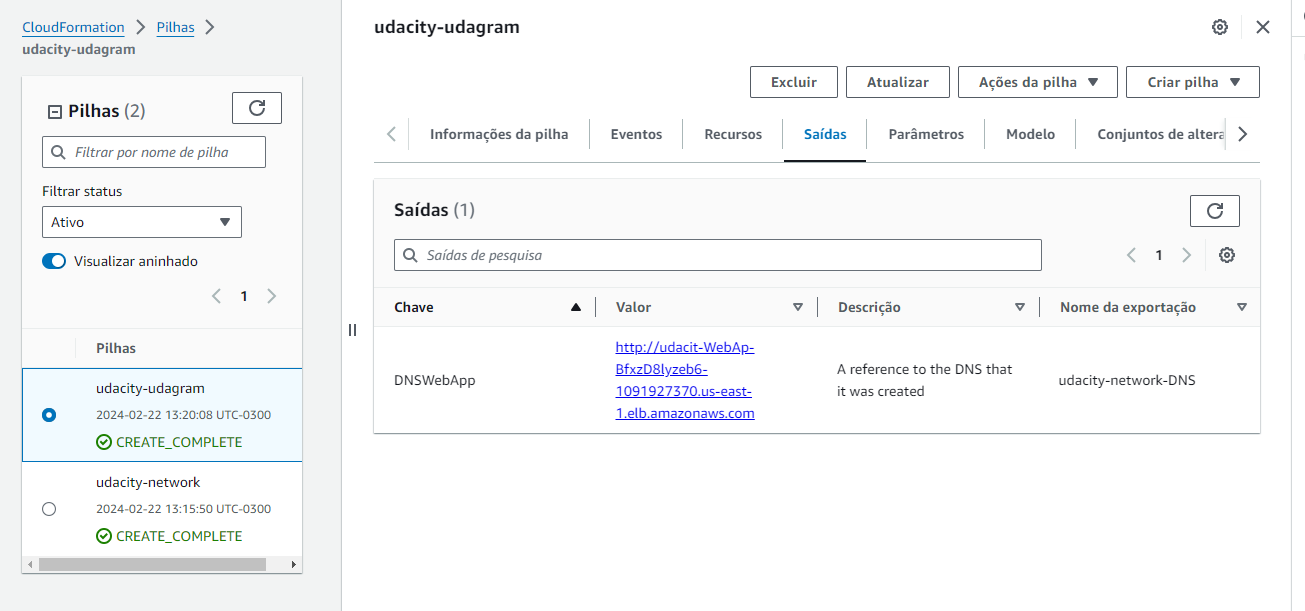
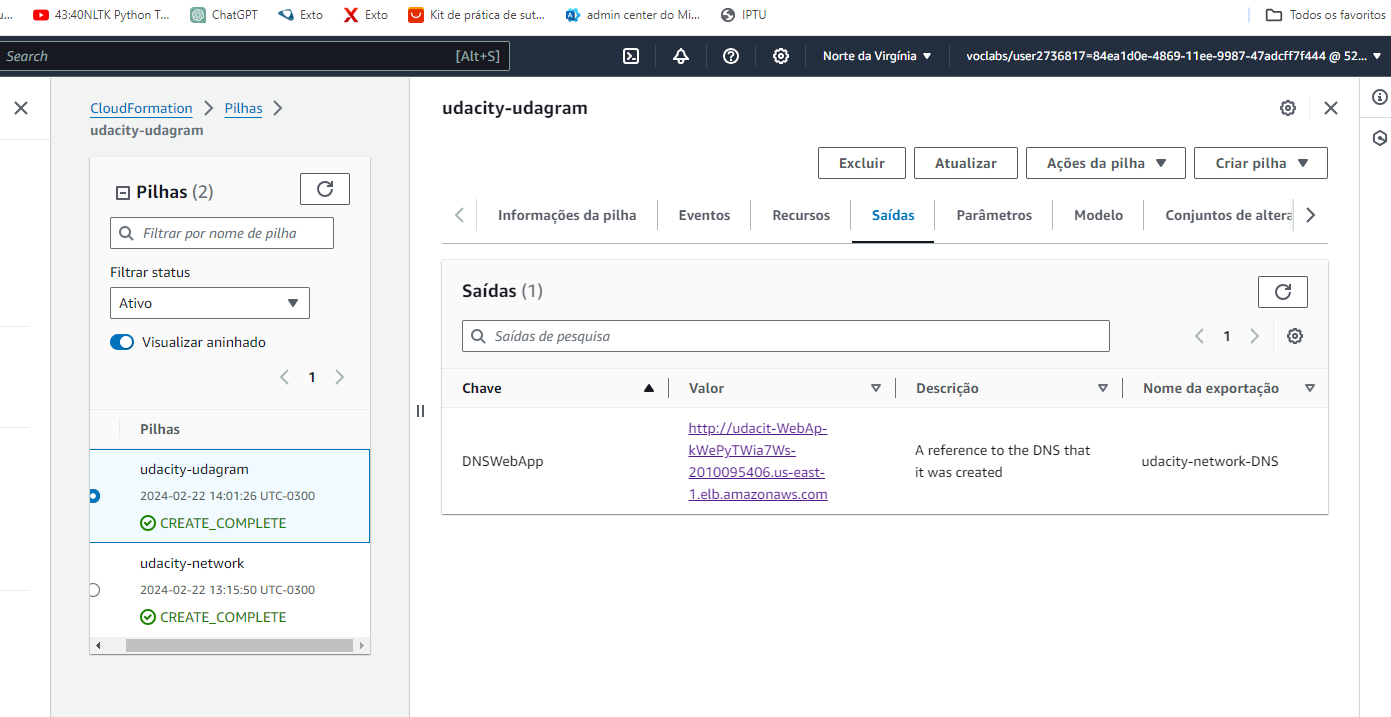
Renew Images

diff --git a/README.md b/README.md
@@ -38,7 +38,7 @@ After both processes completed, the interface will be generated, as it can be se
 ![Image Alt text](/cloudformation-stacks.png "Created Stacks")
 
 ## Acces of the DNS
-DNS: 
+DNS: http://udacit-webap-kwepytwia7ws-2010095406.us-east-1.elb.amazonaws.com/
 ![Image Alt text](/dns-link.png "DNS Acess")
 
 *Note that few parameters can be changed in the .json files*
